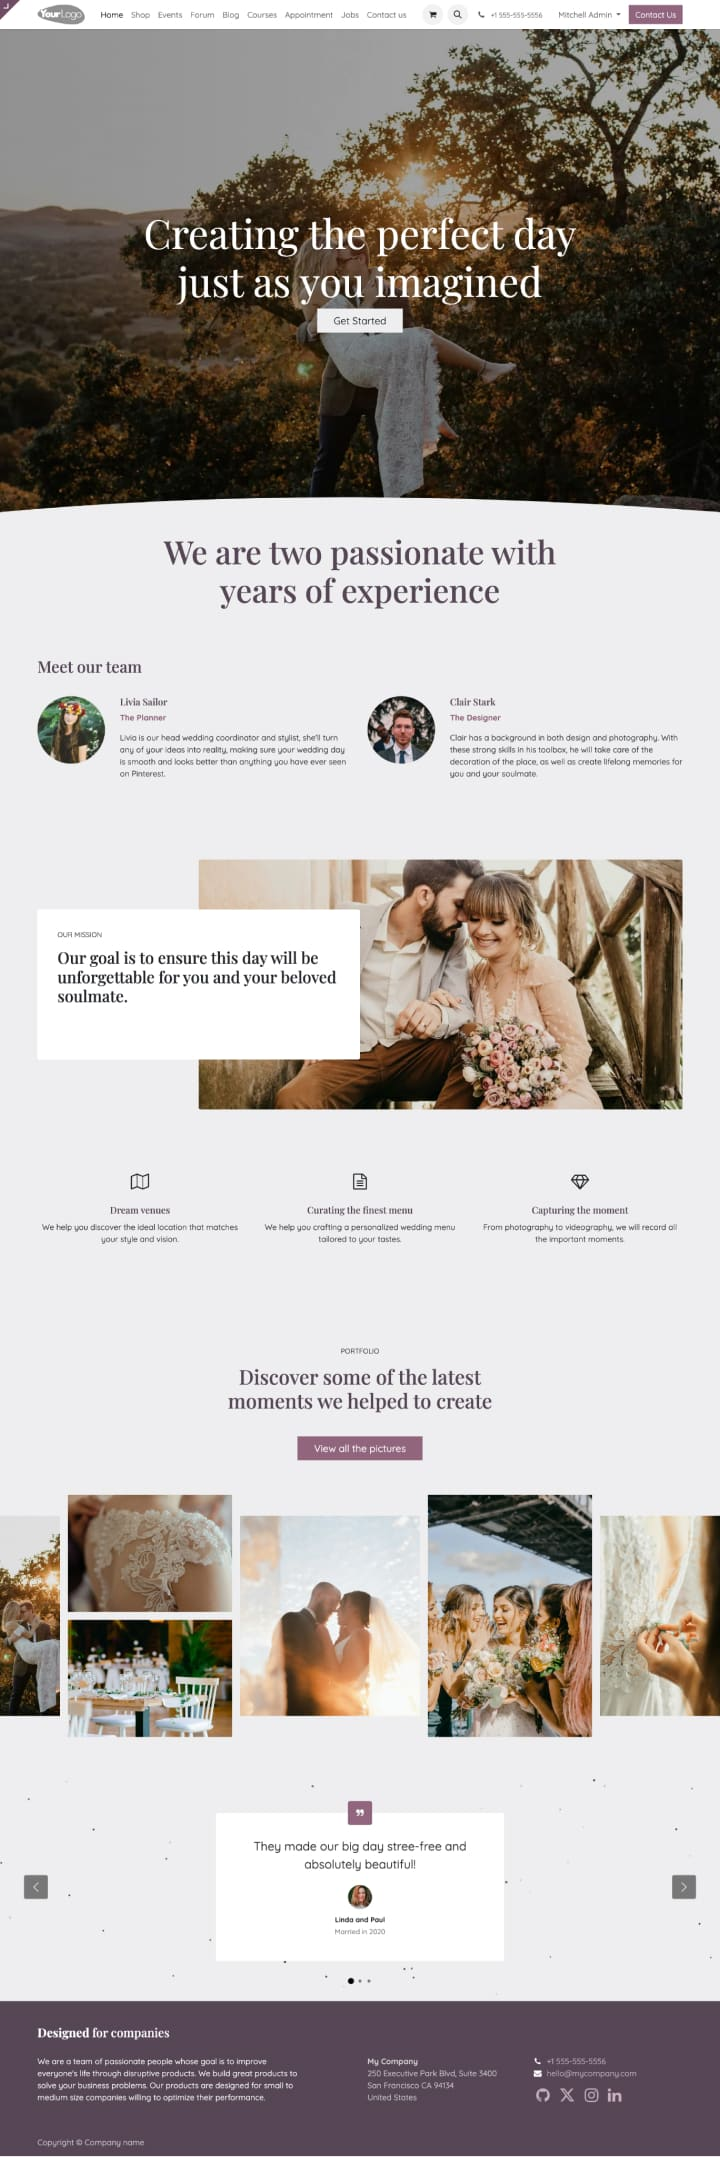
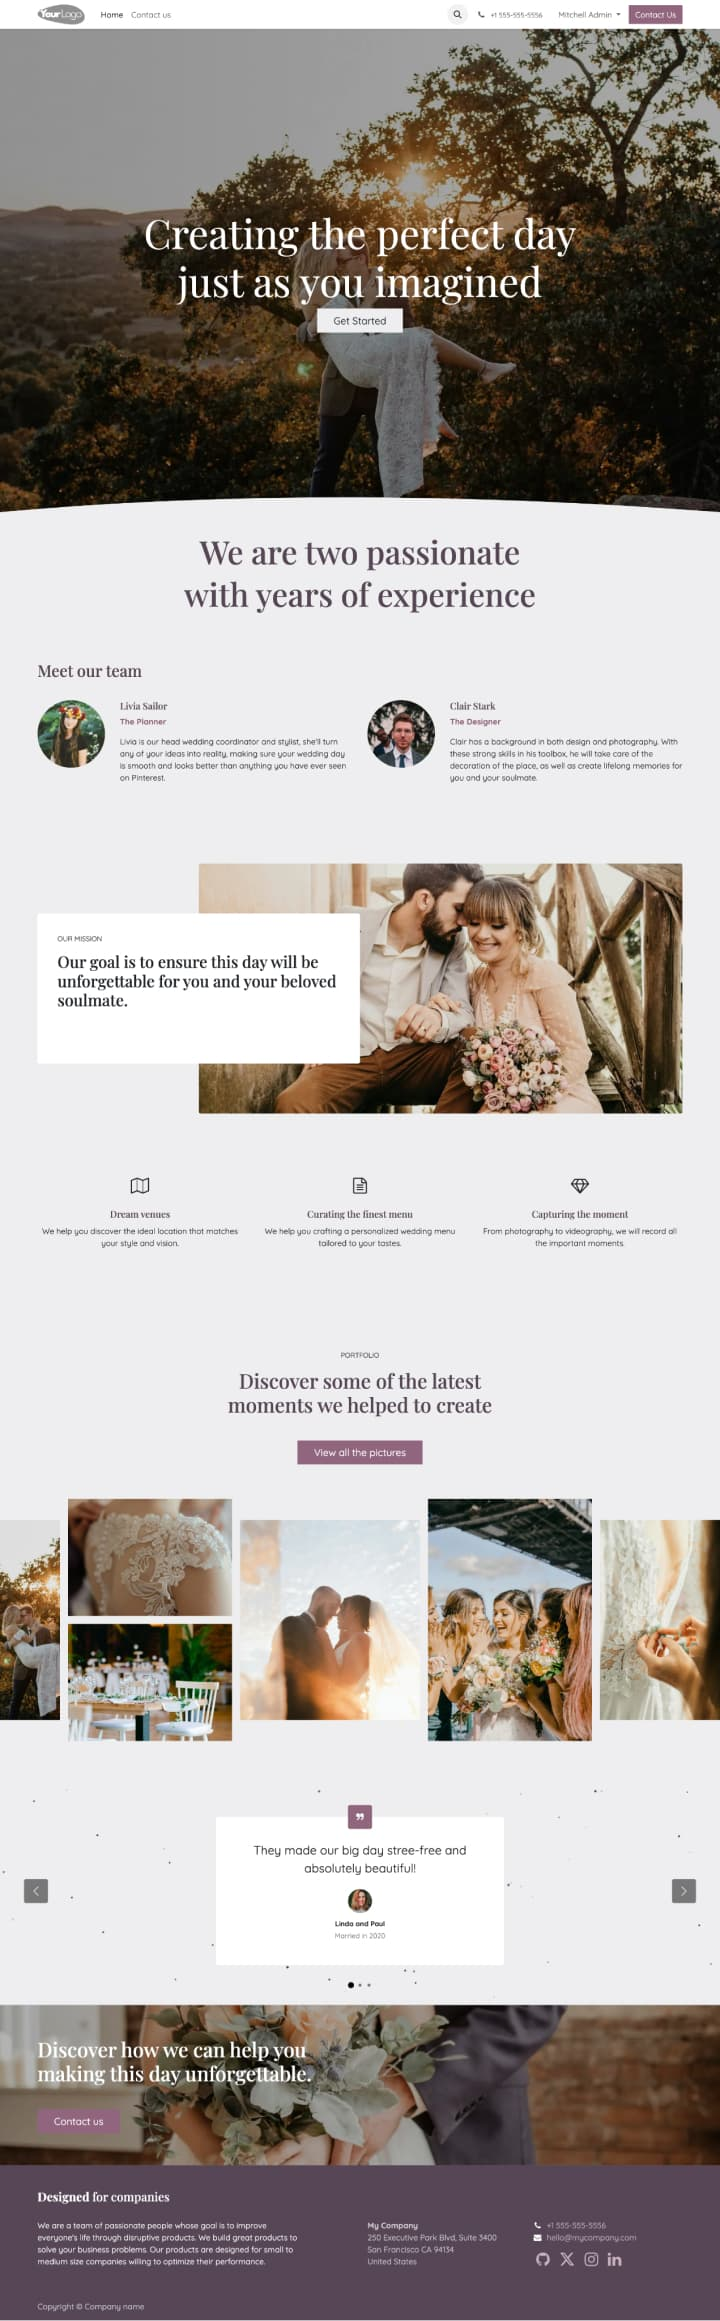
[FIX] theme_yes: fix `s_call_to_action` minor issues
This commit fixes three minors issues about the `s_call_to_action` snippet.

1) The `background-image` is missing the classes to set it to cover,
leading to a weird positioning of the image ;

2) The `background-image` was not the right one ;

3) The `s_call_to_action` snippet was missing from the theme screenshot.

task-4217986
follow-up of task-4178092

Part-of: odoo/design-themes#969
Related: odoo/odoo#182029

diff --git a/theme_yes/__manifest__.py b/theme_yes/__manifest__.py
@@ -80,7 +80,7 @@
         'website.library_image_02': '/theme_yes/static/src/img/snippets/library_image_02.jpg',
         'website.library_image_14': '/theme_yes/static/src/img/snippets/library_image_14.webp',
         'website.library_image_16': '/theme_yes/static/src/img/snippets/library_image_16.webp',
-        'website.s_parallax_default_image': '/theme_yes/static/src/img/snippets/s_parallax.jpg',
+        'website.s_parallax_default_image': '/theme_yes/static/src/img/snippets/s_parallax.webp',
     },
     'configurator_snippets': {
         'homepage': ['s_kickoff', 's_title', 's_company_team', 's_image_text_overlap', 's_features', 's_freegrid', 's_quotes_carousel', 's_call_to_action'],
